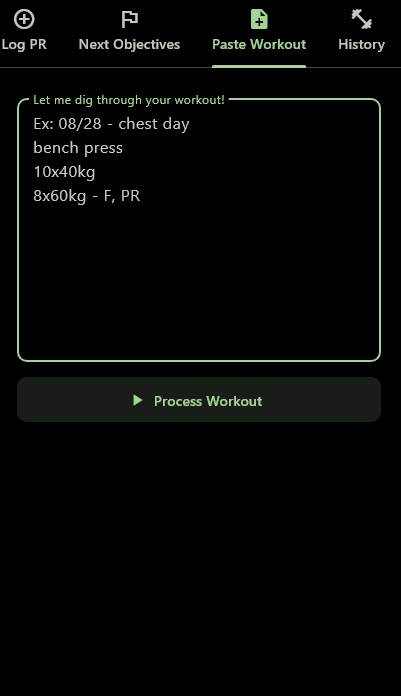
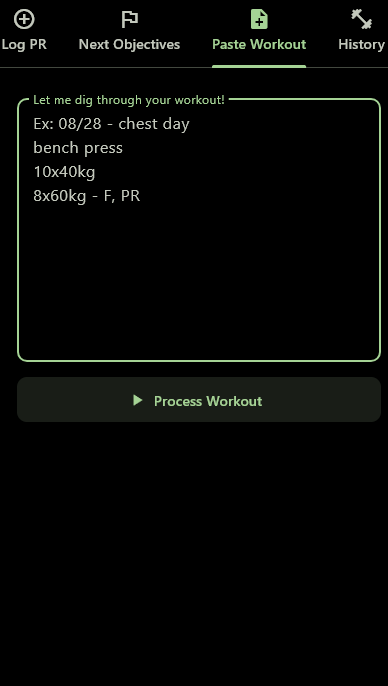
README and Screenshots

diff --git a/README.md b/README.md
@@ -17,9 +17,9 @@ I already log my workouts as plain text in my notes, but it was tiring to figure
 ## Screenshots
 
 <p align="center">
-  <img src="images/prs.png" width="250" alt="Your PRs" />
-  <img src="images/paste.png" width="250" alt="Paste Workout" />
-  <img src="images/objectives.png" width="250" alt="Next Objectives" />
+  <img src="images/prs.png" height="480" alt="Your PRs" />
+  <img src="images/paste.png" height="480" alt="Paste Workout" />
+  <img src="images/objectives.png" height="480" alt="Next Objectives" />
 </p>
 
 ## Features
